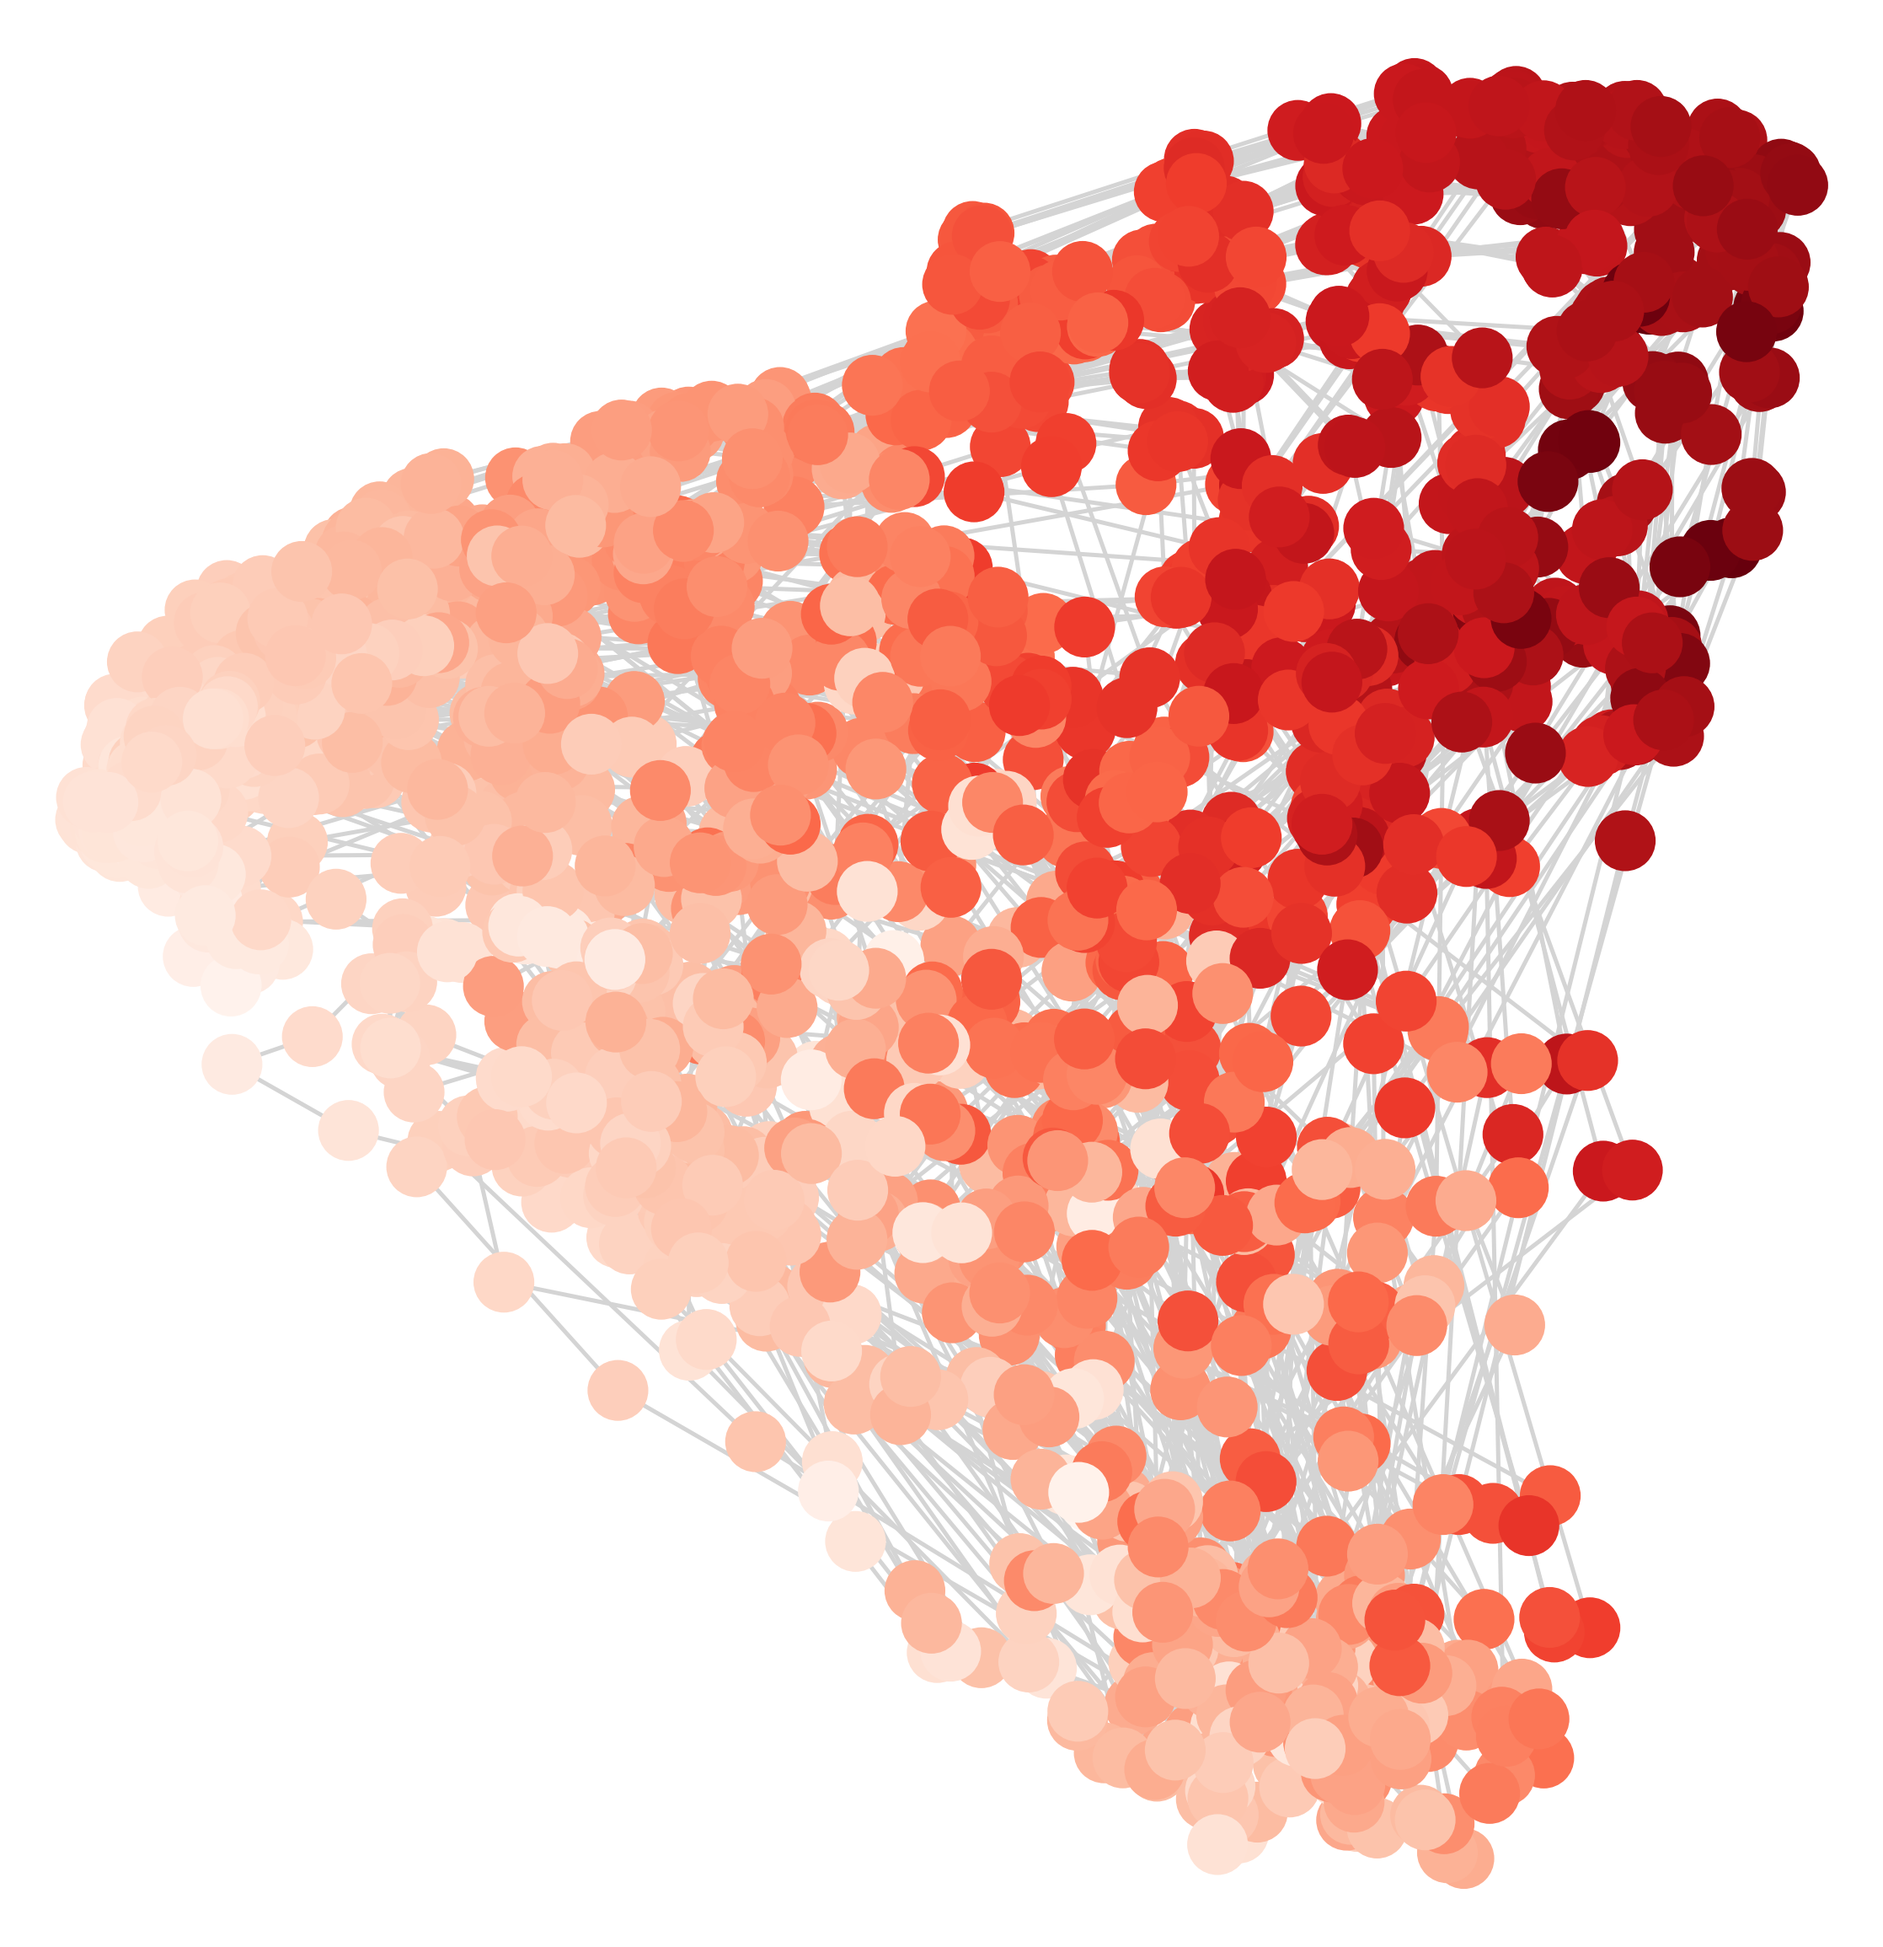
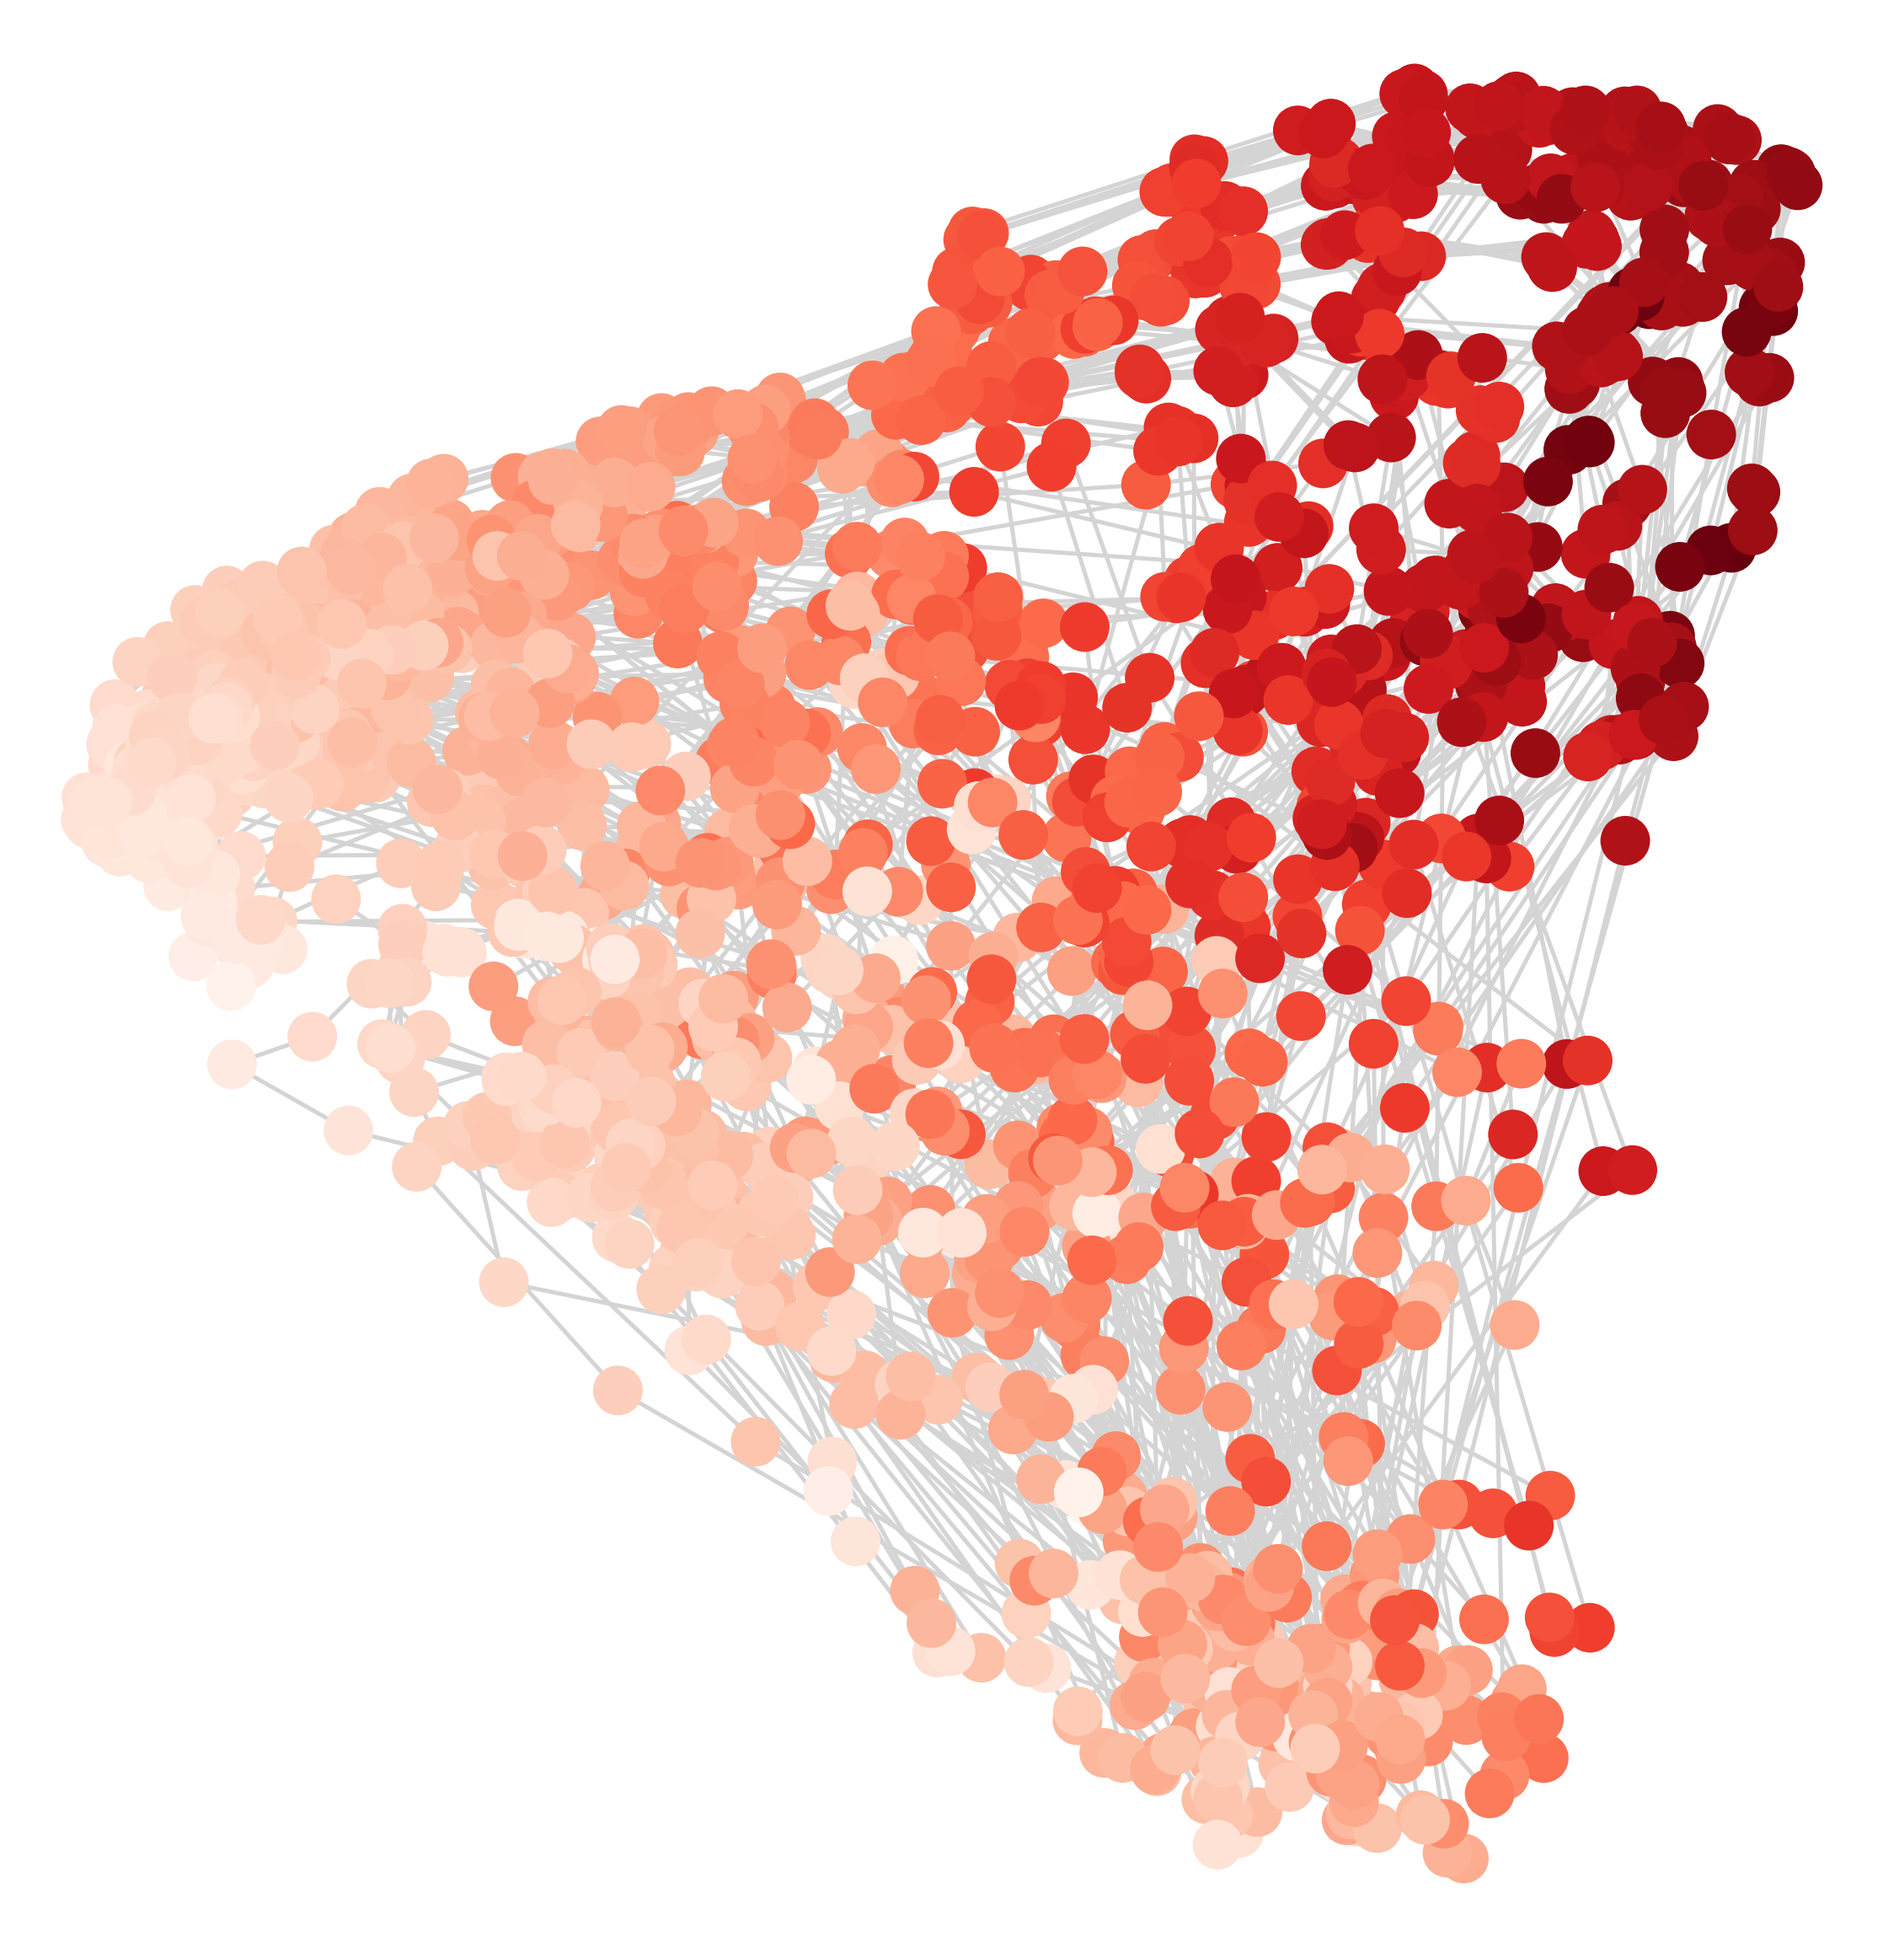
Figures: pc_clean dot size 300 → 200

diff --git a/figures/pc_clean.py b/figures/pc_clean.py
@@ -124,7 +124,7 @@ def main() -> None:
             ax.scatter(
                 r["pc"][0], r["pc"][1],
                 c=color_persona(t_cos(r["cos"])),
-                s=300, edgecolors="none", zorder=2,
+                s=200, edgecolors="none", zorder=2,
             )
 
     ax.set_aspect("equal")
